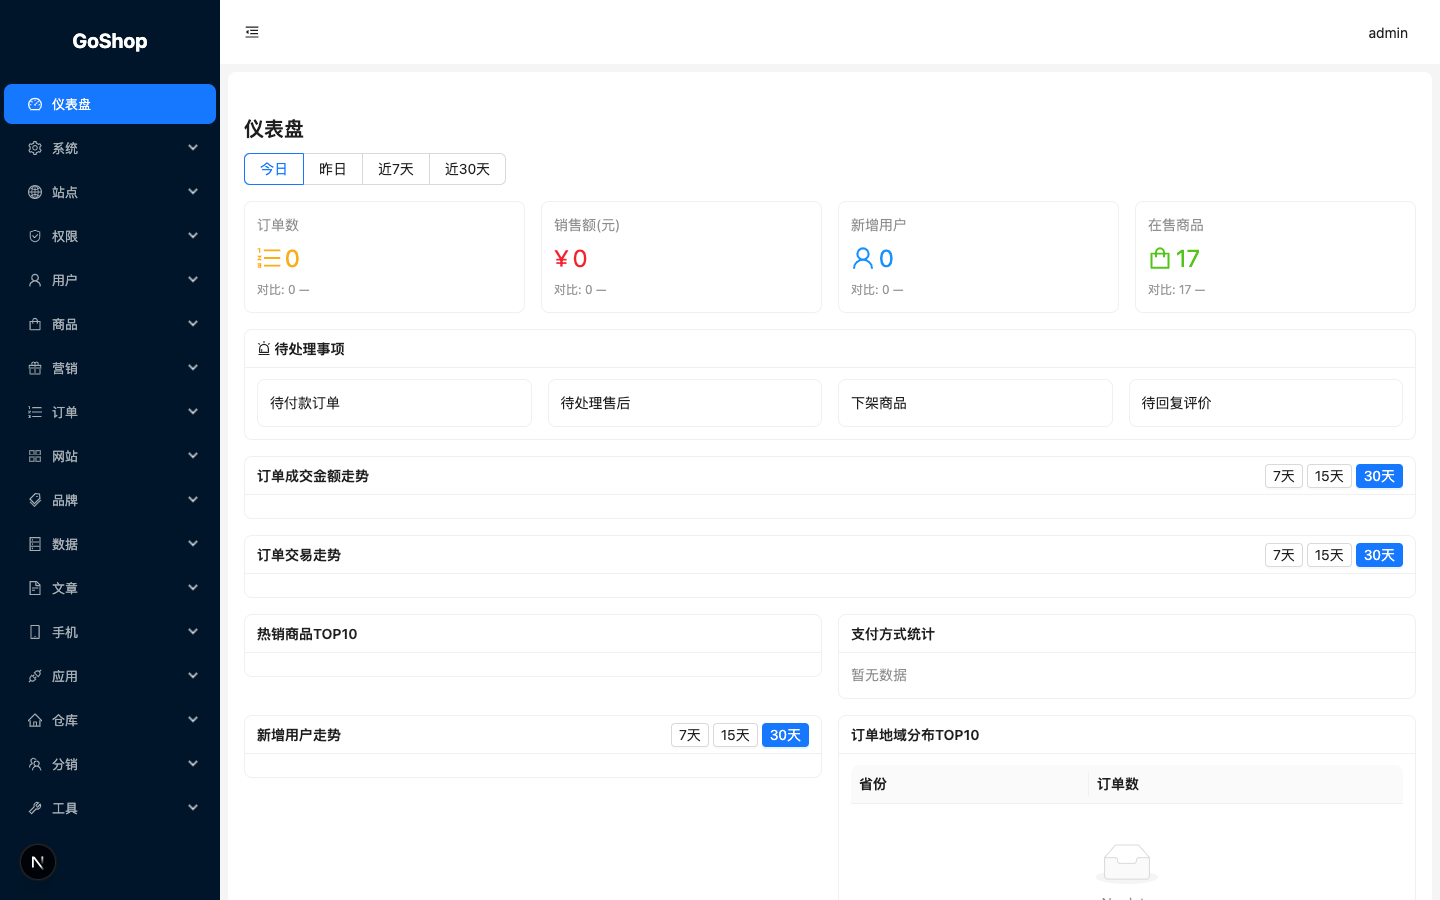
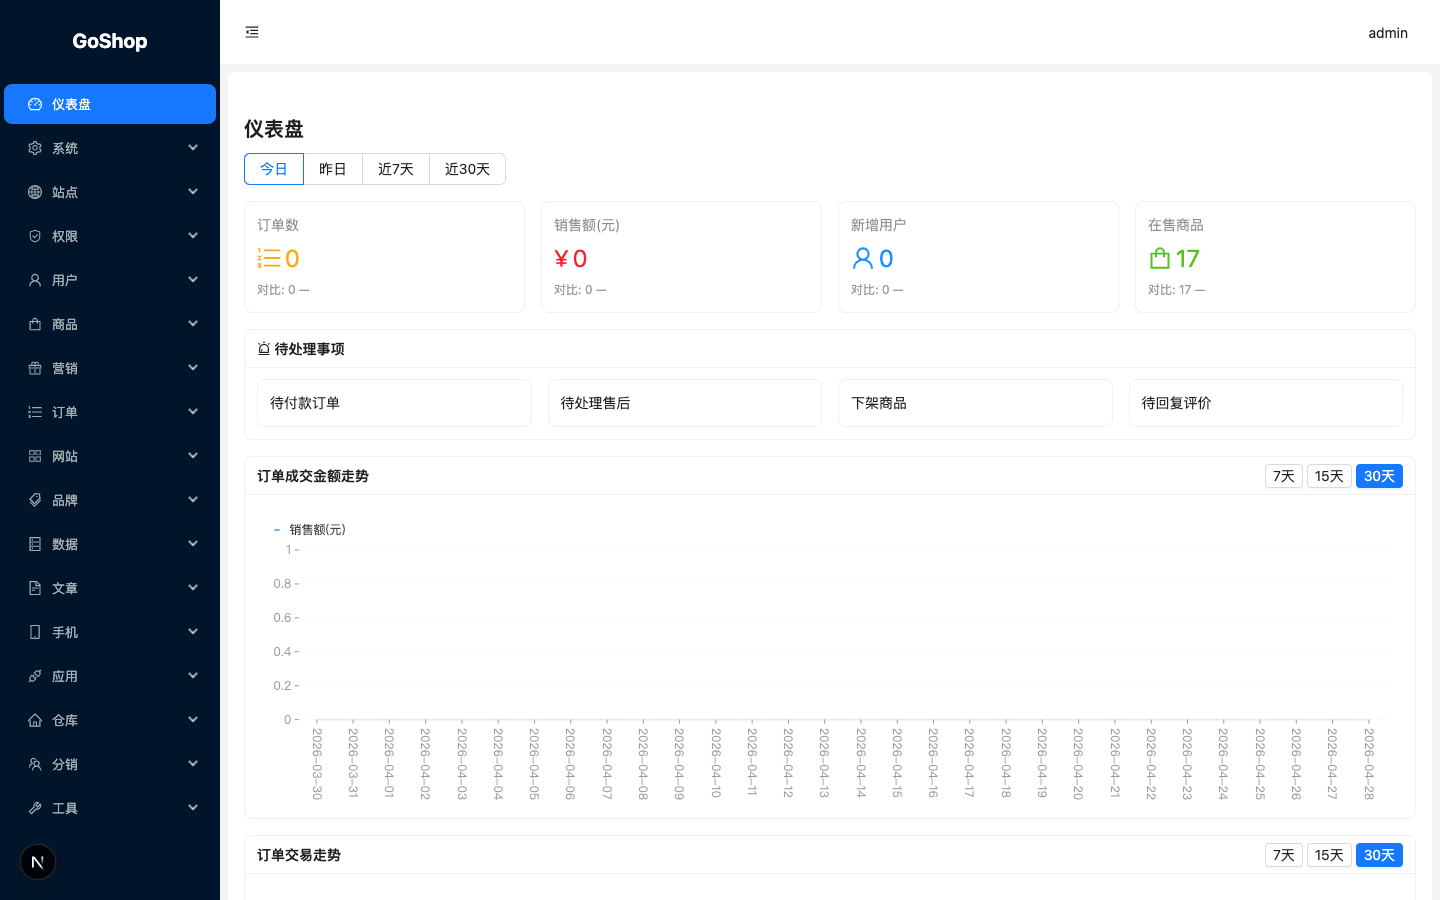
docs: 修复文档 12 处易迷惑问题
- README: Docker 部署说明补充密码/host 配置提示，明确仅含后端
- README: 补充 CREATE DATABASE 步骤，补充 API 代理说明
- README: 管理后台页面数 70→72，Go 版本说明
- Dockerfile: 简化为仅后端镜像，Go 版本对齐 1.25，移除不存在的 standalone
- Dockerfile: EXPOSE 仅 8080，移除不存在的 3000/3001
- config.yaml.example: 支付宝回调 URL 修正 alipay/notify→alipay-notify
- 截图: admin-login.png 修复空白问题（等待表单渲染后截图）

diff --git a/admin/e2e/readme-screenshots.spec.ts b/admin/e2e/readme-screenshots.spec.ts
@@ -11,7 +11,8 @@ const outDir = path.join(__dirname, '..', '..', 'docs', 'screenshots')
 test.describe.serial('README 截屏', () => {
   test('导出管理端登录、仪表盘、商品列表', async ({ page }) => {
     await page.setViewportSize({ width: 1440, height: 900 })
-    await page.goto('/login')
+    await page.goto('/login', { waitUntil: 'networkidle' })
+    await page.getByPlaceholder('用户名').waitFor({ timeout: 30_000 })
     await page.screenshot({ path: path.join(outDir, 'admin-login.png'), fullPage: false })
 
     await loginAdmin(page)

diff --git a/README.md b/README.md
@@ -12,7 +12,7 @@
 
 - **Go 后端**：Gin + GORM + MySQL，**392** 条 Gin 路由注册（`router.go` 350 + DIY/Form 41 + `/api.php` 1）；ShopXO uni-app **`s=` 动作 82**；12 种支付驱动，Redis 可选
 - **营销功能**：秒杀（乐观锁+限购）、拼团（自动成团）、优惠券、促销
-- **管理后台**：Next.js + Ant Design，70 个页面；与 ShopXO 后台为**分级对照**（已对齐 / 部分 / 占位等，见 `docs/shopxo-admin-parity.md`）
+- **管理后台**：Next.js + Ant Design，72 个页面；与 ShopXO 后台为**分级对照**（已对齐 / 部分 / 占位等，见 `docs/shopxo-admin-parity.md`）
 - **PC前台**：Next.js + Tailwind CSS，Apple风格UI
 - **手机端**：可选用社区维护的 [shopxo-uniapp](https://github.com/gongfuxiang/shopxo-uniapp)（需按 `docs/uniapp-guide.md` 配置）；后端提供 **`/api.php` 风格兼容入口**（当前 **82** 个 `s=` 动作，见 `internal/handler/shopxo_compat.go`），**不保证**与对方全部历史版本行为一致，以集成测试与真机为准。
 - **缓存抽象**：Redis/内存缓存自动切换，无Redis也能运行
@@ -37,15 +37,21 @@
 git clone https://github.com/zhangpanda/goshop.git
 cd goshop
 cp config.yaml.example config.yaml
-# 编辑 config.yaml，将 db.host 改为 mysql（redis.host 可留空或改为 redis）
+# 编辑 config.yaml：
+#   db.host 改为 mysql
+#   db.password 改为 goshop123（与 docker-compose.yml 中 MYSQL_ROOT_PASSWORD 一致）
+#   redis.host 改为 redis（或留空使用内存缓存）
 docker compose up -d
-# 访问 http://localhost:8080
+# 后端 API: http://localhost:8080
+# 管理后台和 PC 前台需另行启动（见下方本地开发步骤）
 ```
+
+> Docker 镜像仅包含 Go 后端。管理后台（Next.js :3010）和 PC 前台（Next.js :3000）需在宿主机或单独容器中运行。
 
 ### 本地开发
 
 #### 环境要求
-- Go 1.25+（与 `go.mod` 保持一致）
+- Go 1.25+（`go.mod` 声明 1.25；如使用 Go 1.24.x 需降级 `github.com/gin-gonic/gin` 到 v1.10.x）
 - Node.js 20+（与 Next.js 15 实践一致）
 - MySQL 5.7+ / 8.0+（推荐 8.0）
 - Redis 6+（可选，不配置则使用内存缓存）
@@ -54,11 +60,15 @@ docker compose up -d
 ```bash
 git clone https://github.com/zhangpanda/goshop.git
 cd goshop
-cp config.yaml.example config.yaml  # 修改数据库配置
+cp config.yaml.example config.yaml  # 修改数据库密码等配置
+
+# 创建数据库（首次）
+mysql -uroot -p -e "CREATE DATABASE IF NOT EXISTS goshop CHARACTER SET utf8mb4;"
+
 go build -o bin/goshop cmd/server/main.go
 ./bin/goshop
 # 服务运行在 http://localhost:8080
-# 首次启动自动建表、创建默认管理员(admin/admin123)、初始化配置
+# 首次启动自动建表、创建默认管理员(admin/admin123)、初始化商品等示例数据
 ```
 
 ### 2. 启动管理后台
@@ -77,6 +87,8 @@ npm install
 npm run dev
 # 访问 http://localhost:3000
 ```
+
+> 管理后台和 PC 前台默认将 `/api/*` 代理到 `localhost:8080`。如后端地址不同，需修改对应 `next.config.js` 中的 `rewrites` 配置。
 
 ### 4. 对接uni-app手机端
 ```bash
